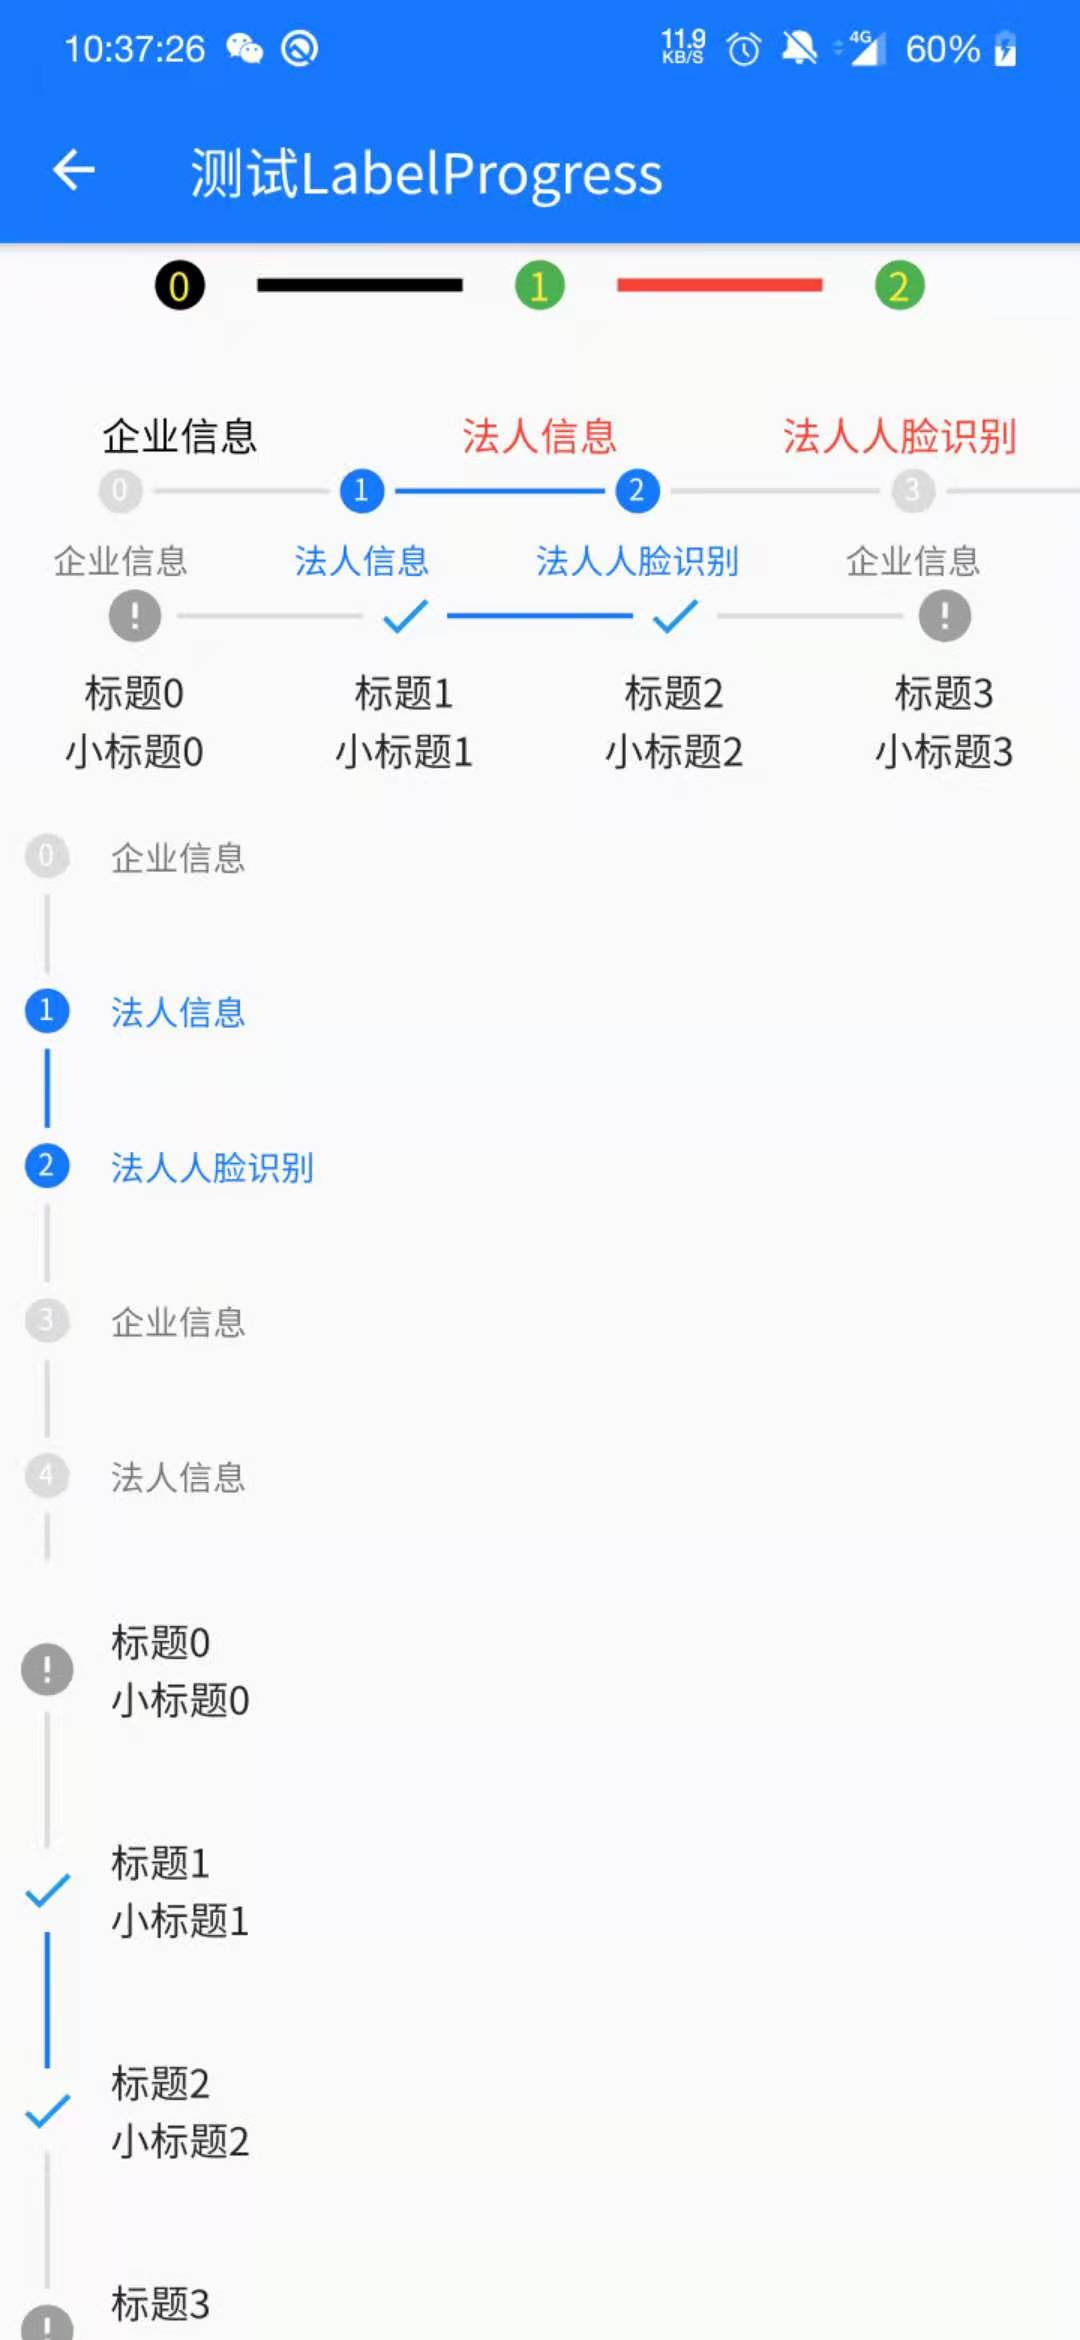
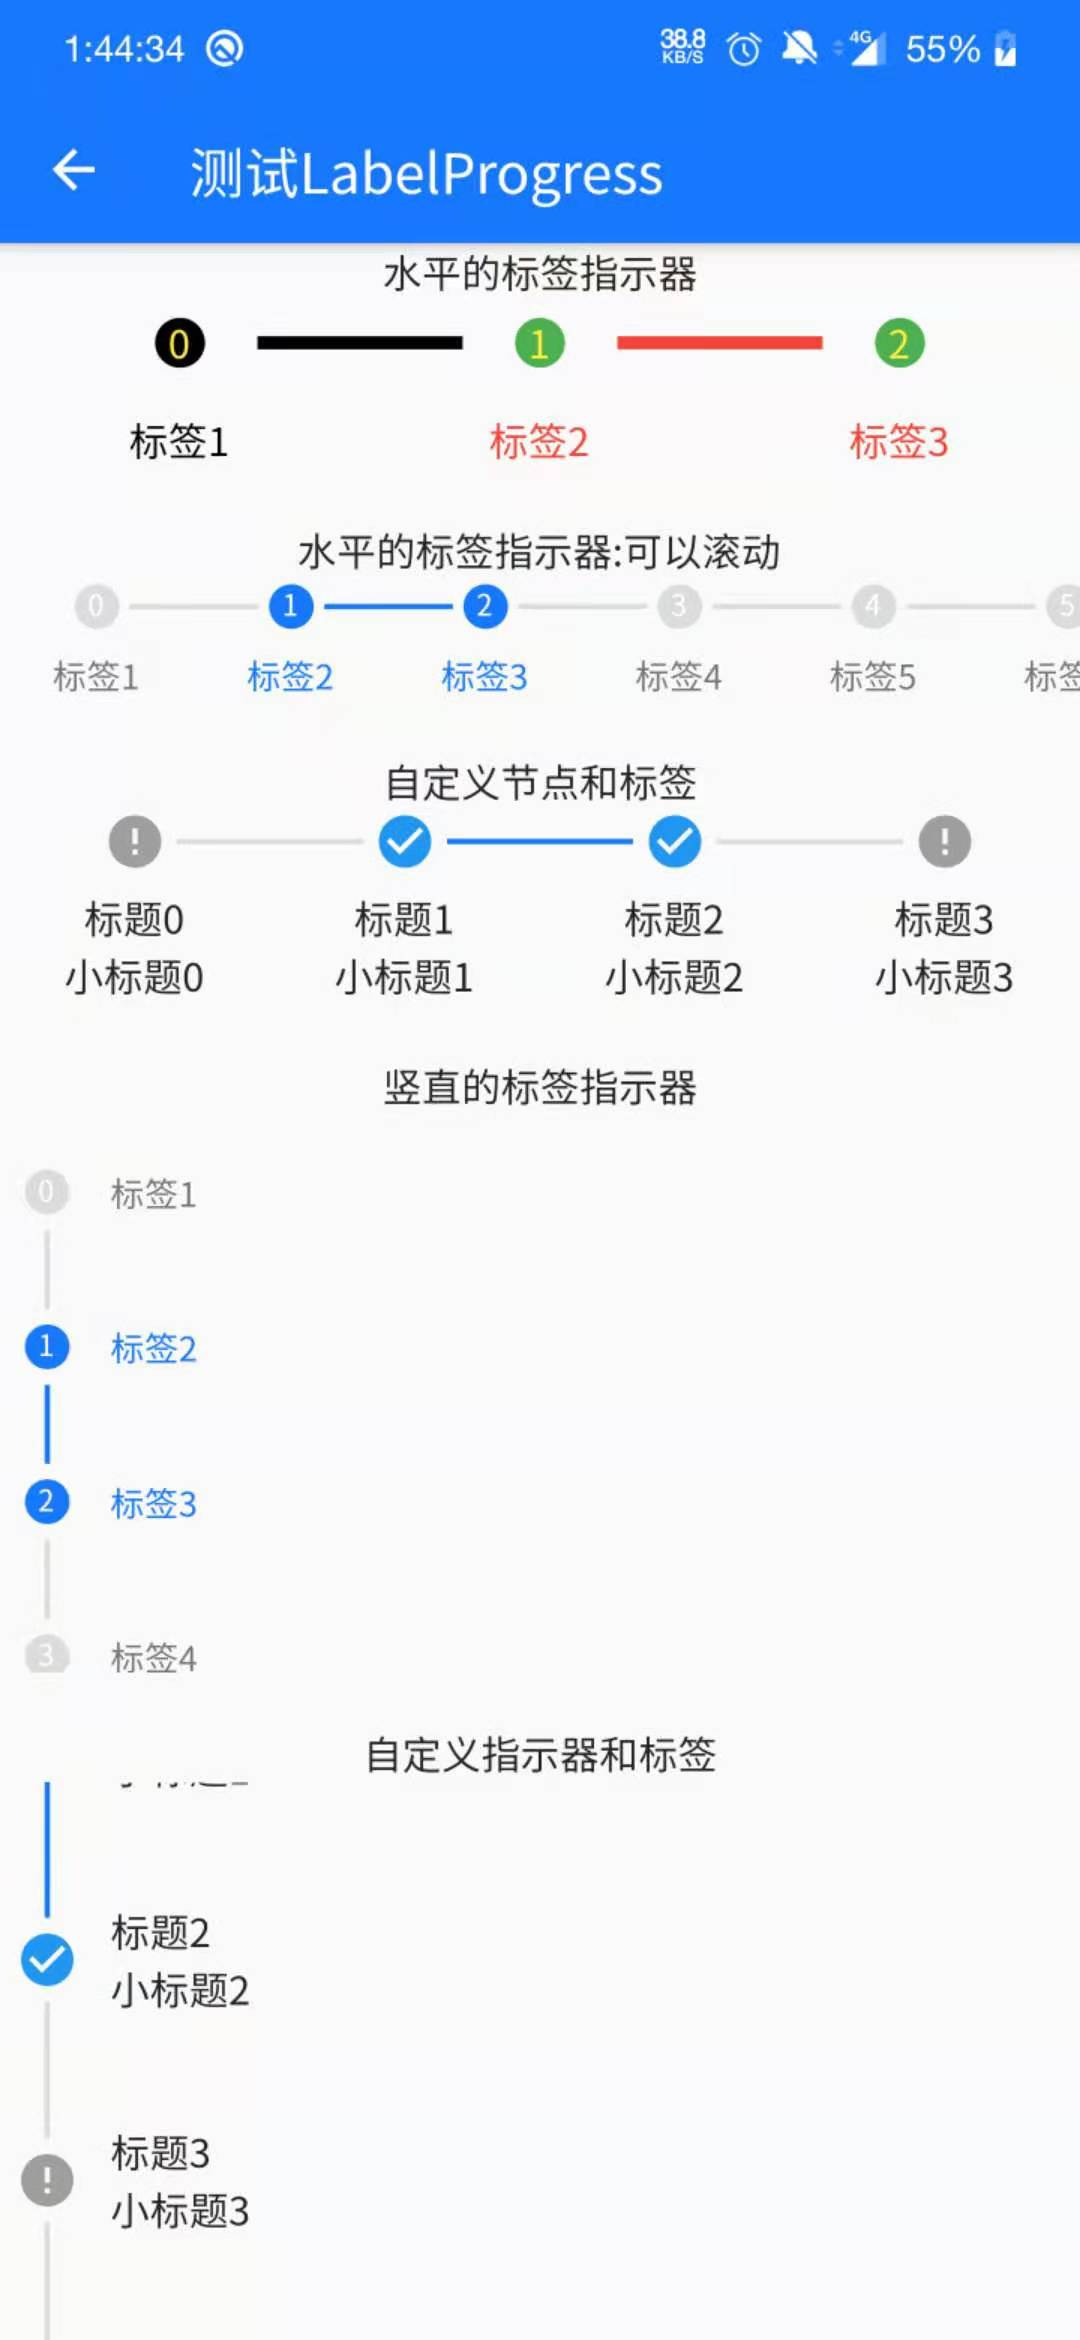
替换测试代码和样例图片

diff --git a/test/test_page.dart b/test/test_page.dart
@@ -17,6 +17,7 @@ class _TestPageState extends State<TestPage> {
       body: Column(
         children: [
           // 水平的标签指示器
+          Text('水平的标签指示器'),
           LabelProgress.text(
             selectedStart: 1,
             selectedEnd: 2,
@@ -29,14 +30,16 @@ class _TestPageState extends State<TestPage> {
             nodeTextStyle: TextStyle(color: Colors.yellow),
             unSelectedTextStyle: TextStyle(color: Colors.black),
             selectedTextStyle: TextStyle(color: Colors.red),
-            nodeLabelSpacing: 30,
+            nodeLabelSpacing: 10,
             labels: [
-              '企业信息',
-              '法人信息',
-              '法人人脸识别',
+              '标签1',
+              '标签2',
+              '标签3',
             ],
           ),
+          Padding(padding: const EdgeInsets.only(top: 20)),
           // 水平的标签指示器:可以滚动
+          Text('水平的标签指示器:可以滚动'),
           LabelProgress.text(
             selectedStart: 1,
             selectedEnd: 2,
@@ -53,21 +56,21 @@ class _TestPageState extends State<TestPage> {
             isScrollable: true,
             // labelsSparing: 30,
             labels: [
-              '企业信息',
-              '法人信息',
-              '法人人脸识别',
-              '企业信息',
-              '法人信息',
-              '法人人脸识别',
-              '企业信息',
-              '法人信息',
-              '法人人脸识别',
-              '企业信息',
-              '法人信息',
-              '法人人脸识别',
+              '标签1',
+              '标签2',
+              '标签3',
+              '标签4',
+              '标签5',
+              '标签6',
+              '标签7',
+              '标签8',
+              '标签9',
+              '标签10',
             ],
           ),
-          // 自定义指示器和标签
+          Padding(padding: const EdgeInsets.only(top: 20)),
+          // 自定义节点和标签
+          Text('自定义节点和标签'),
           LabelProgress(
             selectedStart: 1,
             selectedEnd: 2,
@@ -83,13 +86,15 @@ class _TestPageState extends State<TestPage> {
             nodeBuilder: (BuildContext context, int index, bool selected) {
               return selected
                   ? Icon(
-                Icons.check,
-                color: Colors.blue,
-              )
+                      Icons.check_circle,
+                      color: Colors.blue,
+                    )
                   : Icon(Icons.error, color: Colors.grey);
             },
           ),
+          Padding(padding: const EdgeInsets.only(top: 20)),
           // 竖直的标签指示器
+          Text('竖直的标签指示器'),
           Expanded(
             child: LabelProgress.text(
               selectedStart: 1,
@@ -97,22 +102,19 @@ class _TestPageState extends State<TestPage> {
               direction: Axis.vertical,
               isScrollable: true,
               labels: [
-                '企业信息',
-                '法人信息',
-                '法人人脸识别',
-                '企业信息',
-                '法人信息',
-                '法人人脸识别',
-                '企业信息',
-                '法人信息',
-                '法人人脸识别',
-                '企业信息',
-                '法人信息',
-                '法人人脸识别',
+                '标签1',
+                '标签2',
+                '标签3',
+                '标签4',
+                '标签5',
+                '标签6',
+                '标签7',
               ],
             ),
           ),
-          // 自定义指示器和标签
+          Padding(padding: const EdgeInsets.only(top: 20)),
+          // 自定义节点和标签
+          Text('自定义节点和标签：竖直方向'),
           Expanded(
             child: LabelProgress(
               selectedStart: 1,
@@ -133,9 +135,9 @@ class _TestPageState extends State<TestPage> {
               nodeBuilder: (BuildContext context, int index, bool selected) {
                 return selected
                     ? Icon(
-                  Icons.check,
-                  color: Colors.blue,
-                )
+                        Icons.check_circle,
+                        color: Colors.blue,
+                      )
                     : Icon(Icons.error, color: Colors.grey);
               },
             ),
